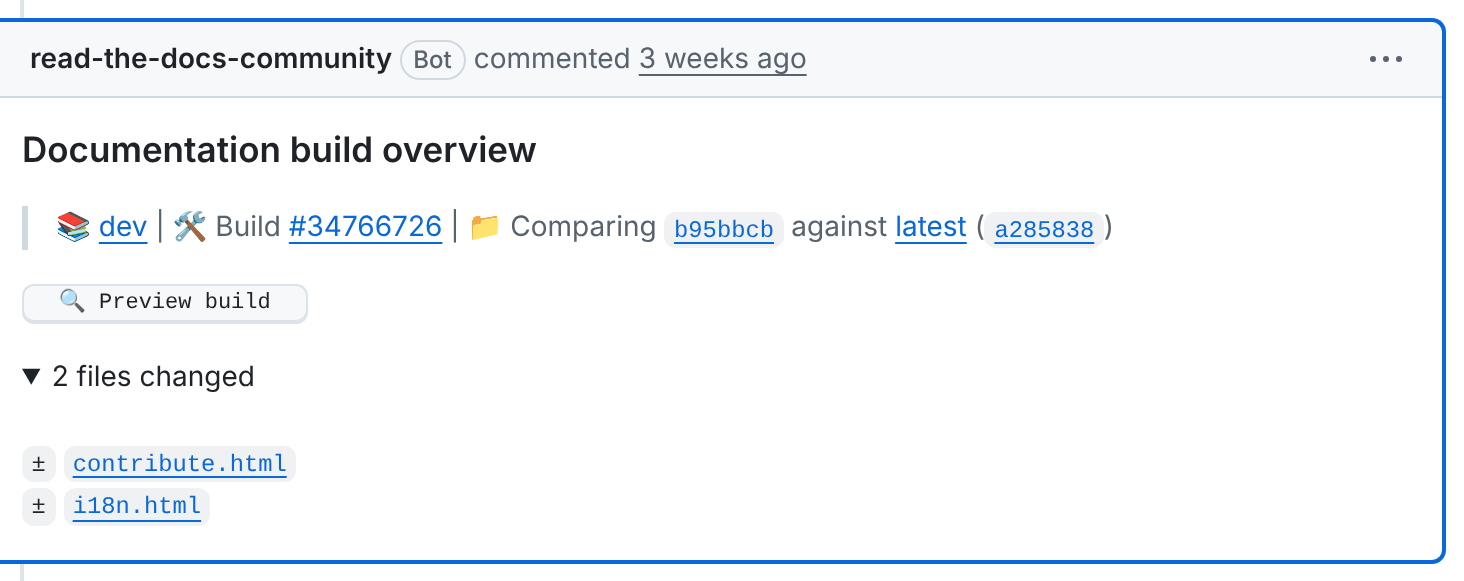
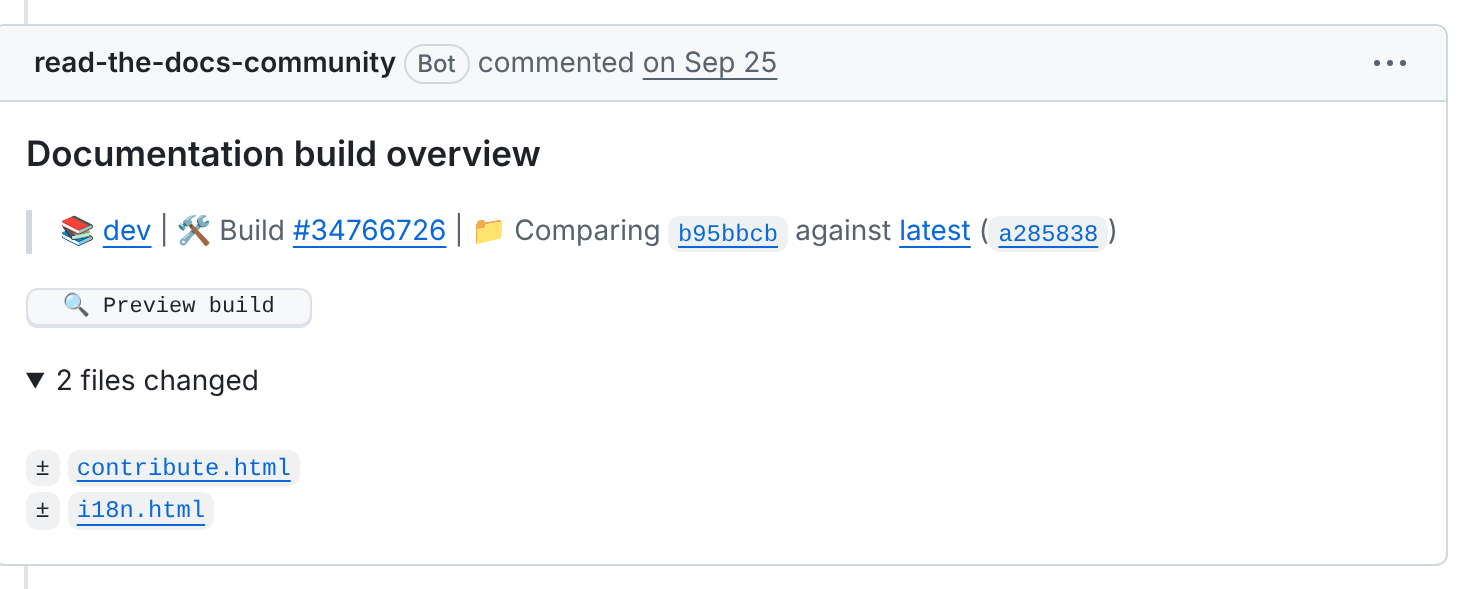
website: third review round on the Django page
Logos on the project cards, the open source line folded into the
section intro, a tinted Django card on the tools index in place of the
note block, and a comment screenshot with its full border.

Claude-Session: https://claude.ai/code/session_01GQSaFnmAuoxazsXsTx1mga

diff --git a/content/pages/tools/django.html b/content/pages/tools/django.html
@@ -99,7 +99,7 @@
     {{ basic.header_icon(
         header="Join some of the most important Django projects",
         header_level="h2",
-        subheader="Django and the projects around it preview their pull requests and host their docs on Read the Docs.",
+        subheader="Django and the projects around it preview their pull requests and host their docs on Read the Docs. We're a Django app ourselves, <a href=\"/company/\">open source since 2010</a>.",
         icon="green fa-people-group",
         icon_style="--fa-secondary-color: #0C4B33; --fa-secondary-opacity: 1;"
     ) }}
@@ -108,6 +108,9 @@
 
       <a href="https://docs.djangoproject.com/en/stable/" class="card">
         <div class="content">
+          <div class="ui center aligned basic segment">
+            <img class="ui small image" src="{{ SITE_URL }}/images/django-logo.svg" alt="Django logo" />
+          </div>
           <div class="header">Django</div>
           <div class="meta">Web framework</div>
           <div class="description">
@@ -119,6 +122,9 @@
 
       <a href="https://docs.wagtail.org/" class="card">
         <div class="content">
+          <div class="ui center aligned basic segment">
+            <img class="ui small image" src="{{ SITE_URL }}/images/wagtail-logo.svg" alt="Wagtail logo" />
+          </div>
           <div class="header">Wagtail</div>
           <div class="meta">Content management system</div>
           <div class="description">
@@ -130,6 +136,9 @@
 
       <a href="https://docs.celeryq.dev/" class="card">
         <div class="content">
+          <div class="ui center aligned basic segment">
+            <img class="ui small image" src="{{ SITE_URL }}/images/celery-logo.png" alt="Celery logo" />
+          </div>
           <div class="header">Celery</div>
           <div class="meta">Task queue</div>
           <div class="description">
@@ -138,12 +147,6 @@
         </div>
       </a>
 
-    </div>
-
-    <div class="ui basic center aligned vertical segment">
-      <p class="ui grey text">
-        Read the Docs is itself a Django app, <a href="/company/">open source since 2010</a>.
-      </p>
     </div>
   </div>
 </section>

diff --git a/content/pages/tools/index.html b/content/pages/tools/index.html
@@ -61,18 +61,25 @@
           description="Use any documentation tool with custom build commands. Docusaurus, VuePress, Hugo, or anything else you need."
         ) }}
 
-      </div>
-    </div>
-  </section>
+        {# Not a documentation tool, so tinted to stand apart from the cards above. #}
+        <a class="blue card" href="/tools/django/">
+          <div class="content">
+            <div class="ui basic padded segment">
+              <div class="ui center aligned">
+                <h3 class="ui header">Django</h3>
+              </div>
+            </div>
+            <div class="meta">Web framework</div>
+            <div class="description">
+              Documenting a Django project? Preview every pull request, with any of the tools above.
+            </div>
+          </div>
+          <div class="ui button">
+            <i class="fad fa-arrow-right icon"></i>
+            Learn about Django
+          </div>
+        </a>
 
-  <section>
-    <div class="ui text container">
-      <div class="ui icon info message">
-        <i class="fad fa-code-pull-request icon"></i>
-        <div class="content">
-          <div class="header">Documenting a Django project?</div>
-          <p>See how <a href="/tools/django/">pull request previews fit a Django workflow</a>.</p>
-        </div>
       </div>
     </div>
   </section>
